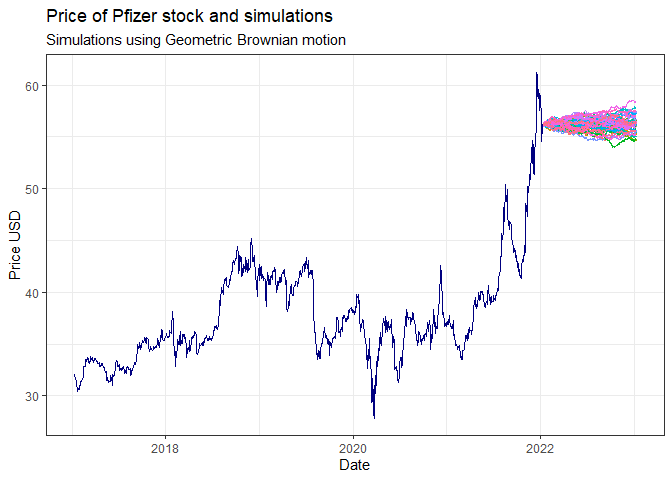
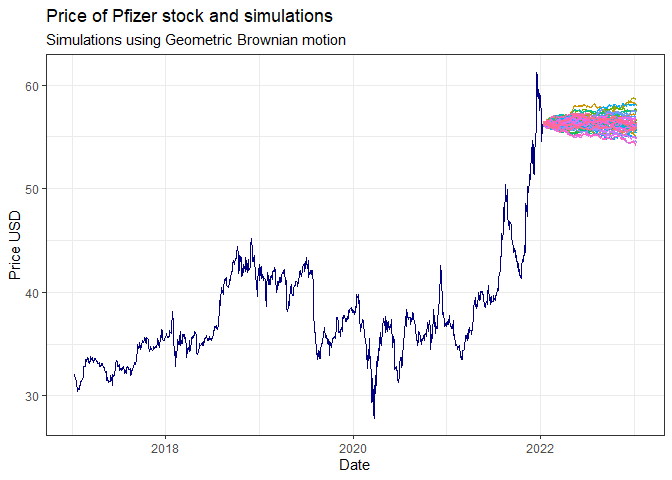
Add files via upload

Changed region(s): [[0.8125, 0.1875, 0.9688, 0.3125]]

diff --git a/README.md b/README.md
@@ -9,7 +9,7 @@ In this project I use *geometric Brownian motion* to simulate a stock
 price a year in advance.
 
 Data was aquired from [nasdaq](https://www.nasdaq.com/). For the project
-I choose the stock of [Pfizer, Inc. Common
+I choose the stock of [Pfizer, Inc. Common
 Stock](https://www.pfizer.com/) as the company is very relevant in this
 covid times.
 
@@ -23,27 +23,54 @@ The process is used in mathematical finance to model stock prices.
 *Geometric Brownian motion* is represented by the stochastic
 differential equation.
 
-$dS_{t} = \mu S_{t} dt + \sigma S_{t} dW_{t}.$
+![dS\_{t} = \\mu S\_{t} dt + \\sigma S\_{t} dW\_{t}.](https://latex.codecogs.com/png.image?%5Cdpi%7B110%7D&space;%5Cbg_white&space;dS_%7Bt%7D%20%3D%20%5Cmu%20S_%7Bt%7D%20dt%20%2B%20%5Csigma%20S_%7Bt%7D%20dW_%7Bt%7D. "dS_{t} = \mu S_{t} dt + \sigma S_{t} dW_{t}.")
 
-Coefficients $\mu$ and $\sigma$ are constants and represent the percentage drift and percentage volatility of the stock. The first part of the equation is deterministic and the second part is unpredictable as it contains a random component $dW_{t}$ which is the *Brownian motion*.
+Coefficients
+![\\mu](https://latex.codecogs.com/png.image?%5Cdpi%7B110%7D&space;%5Cbg_white&space;%5Cmu "\mu")
+and
+![\\sigma](https://latex.codecogs.com/png.image?%5Cdpi%7B110%7D&space;%5Cbg_white&space;%5Csigma "\sigma")
+are constants and represent the percentage drift and percentage
+volatility of the stock. The first part of the equation is deterministic
+and the second part is unpredictable as it contains a random component
+![dW\_{t}](https://latex.codecogs.com/png.image?%5Cdpi%7B110%7D&space;%5Cbg_white&space;dW_%7Bt%7D "dW_{t}")
+which is the *Brownian motion*.
 
-Dividing the equation with $S_{t}$ and using *Ito's Lemma* leads us to the solution.
+Dividing the equation with
+![S\_{t}](https://latex.codecogs.com/png.image?%5Cdpi%7B110%7D&space;%5Cbg_white&space;S_%7Bt%7D "S_{t}")
+and using *Ito’s Lemma* leads us to the solution.
 
-\begin{center}
-$S_{t} = S_{0} \ e^{(\mu - \frac{\sigma^{2}}{2})t + \sigma  W_{t}}$, where $W_{t} \sim N(0, t).$
-\end{center}
+![S\_{t} = S\_{0} \\ e^{(\\mu - \\frac{\\sigma^{2}}{2})t + \\sigma  W\_{t}}](https://latex.codecogs.com/png.image?%5Cdpi%7B110%7D&space;%5Cbg_white&space;S_%7Bt%7D%20%3D%20S_%7B0%7D%20%5C%20e%5E%7B%28%5Cmu%20-%20%5Cfrac%7B%5Csigma%5E%7B2%7D%7D%7B2%7D%29t%20%2B%20%5Csigma%20%20W_%7Bt%7D%7D "S_{t} = S_{0} \ e^{(\mu - \frac{\sigma^{2}}{2})t + \sigma  W_{t}}")
 
-We can use this solution of the *geometric Brownian motion* model to simulate stock prices. Here $S_{t}$ is the price of stock at time $t$. We need historical data of the price of stock. Out of this data we estimate *percentage drift* $\hat{\mu}$ and *percentage volatility* $\hat{\sigma}$. Where we firstly calculate log-returns for each $t = 2, \dots, T: \ \ Z_{t} = ln \Big(\frac{S_{t}}{S_{t-1}} \Big)$.
+, where
+
+![W\_{t} \\sim N(0, t).](https://latex.codecogs.com/png.image?%5Cdpi%7B110%7D&space;%5Cbg_white&space;W_%7Bt%7D%20%5Csim%20N%280%2C%20t%29. "W_{t} \sim N(0, t).")
+
+We can use this solution of the *geometric Brownian motion* model to
+simulate stock prices. Here
+![S\_{t}](https://latex.codecogs.com/png.image?%5Cdpi%7B110%7D&space;%5Cbg_white&space;S_%7Bt%7D "S_{t}")
+is the price of stock at time
+![t](https://latex.codecogs.com/png.image?%5Cdpi%7B110%7D&space;%5Cbg_white&space;t "t").
+We need historical data of the price of stock. Out of this data we
+estimate *percentage drift*
+![\\hat{\\mu}](https://latex.codecogs.com/png.image?%5Cdpi%7B110%7D&space;%5Cbg_white&space;%5Chat%7B%5Cmu%7D "\hat{\mu}")
+and *percentage volatility*
+![\\hat{\\sigma}](https://latex.codecogs.com/png.image?%5Cdpi%7B110%7D&space;%5Cbg_white&space;%5Chat%7B%5Csigma%7D "\hat{\sigma}").
+Where we firstly calculate log-returns for each
+![t = 2, \\dots, T: \\ \\ Z\_{t} = ln \\Big(\\frac{S\_{t}}{S\_{t-1}} \\Big)](https://latex.codecogs.com/png.image?%5Cdpi%7B110%7D&space;%5Cbg_white&space;t%20%3D%202%2C%20%5Cdots%2C%20T%3A%20%5C%20%5C%20Z_%7Bt%7D%20%3D%20ln%20%5CBig%28%5Cfrac%7BS_%7Bt%7D%7D%7BS_%7Bt-1%7D%7D%20%5CBig%29 "t = 2, \dots, T: \ \ Z_{t} = ln \Big(\frac{S_{t}}{S_{t-1}} \Big)").
 
 Now we can estimate:
 
-- $\hat{\mu} = \frac{1}{T - 1} \sum_{t=2}^{T}Z_{t}$,
-- $\hat{\sigma} = \sqrt{var(Z_{t}) \ \tau}$,
+-   ![\\hat{\\mu} = \\frac{1}{T - 1} \\sum\_{t=2}^{T}Z\_{t}](https://latex.codecogs.com/png.image?%5Cdpi%7B110%7D&space;%5Cbg_white&space;%5Chat%7B%5Cmu%7D%20%3D%20%5Cfrac%7B1%7D%7BT%20-%201%7D%20%5Csum_%7Bt%3D2%7D%5E%7BT%7DZ_%7Bt%7D "\hat{\mu} = \frac{1}{T - 1} \sum_{t=2}^{T}Z_{t}"),
+-   ![\\hat{\\sigma} = \\sqrt{var(Z\_{t}) \\ \\tau}](https://latex.codecogs.com/png.image?%5Cdpi%7B110%7D&space;%5Cbg_white&space;%5Chat%7B%5Csigma%7D%20%3D%20%5Csqrt%7Bvar%28Z_%7Bt%7D%29%20%5C%20%5Ctau%7D "\hat{\sigma} = \sqrt{var(Z_{t}) \ \tau}"),
 
-where $T$ is the number of periods and $\tau$ is the number of trading days between two periods.
+where
+![T](https://latex.codecogs.com/png.image?%5Cdpi%7B110%7D&space;%5Cbg_white&space;T "T")
+is the number of periods and
+![\\tau](https://latex.codecogs.com/png.image?%5Cdpi%7B110%7D&space;%5Cbg_white&space;%5Ctau "\tau")
+is the number of trading days between two periods.
 
-With all of the above we can simulate stock prices using *geometric Brownian motion*.
-
+With all of the above we can simulate stock prices using *geometric
+Brownian motion*.
 
 ## Code
 
@@ -376,35 +403,35 @@ deviation.
 max(simulated.df[length(simulated.df),][-1])
 ```
 
-    ## [1] 56.79803
+    ## [1] 57.07191
 
 ``` r
 # minimum
 min(simulated.df[length(simulated.df),][-1])
 ```
 
-    ## [1] 55.59141
+    ## [1] 55.70046
 
 ``` r
 # mean
 mean(t(simulated.df[length(simulated.df),][-1]))
 ```
 
-    ## [1] 56.25413
+    ## [1] 56.3149
 
 ``` r
 # median
 median(t(simulated.df[length(simulated.df),][-1]))
 ```
 
-    ## [1] 56.2562
+    ## [1] 56.28668
 
 ``` r
 # standard deviation
 sd(simulated.df[length(simulated.df),][-1])
 ```
 
-    ## [1] 0.296852
+    ## [1] 0.3489561
 
 For the end lets visualize the simulation together with the actual data.
 
